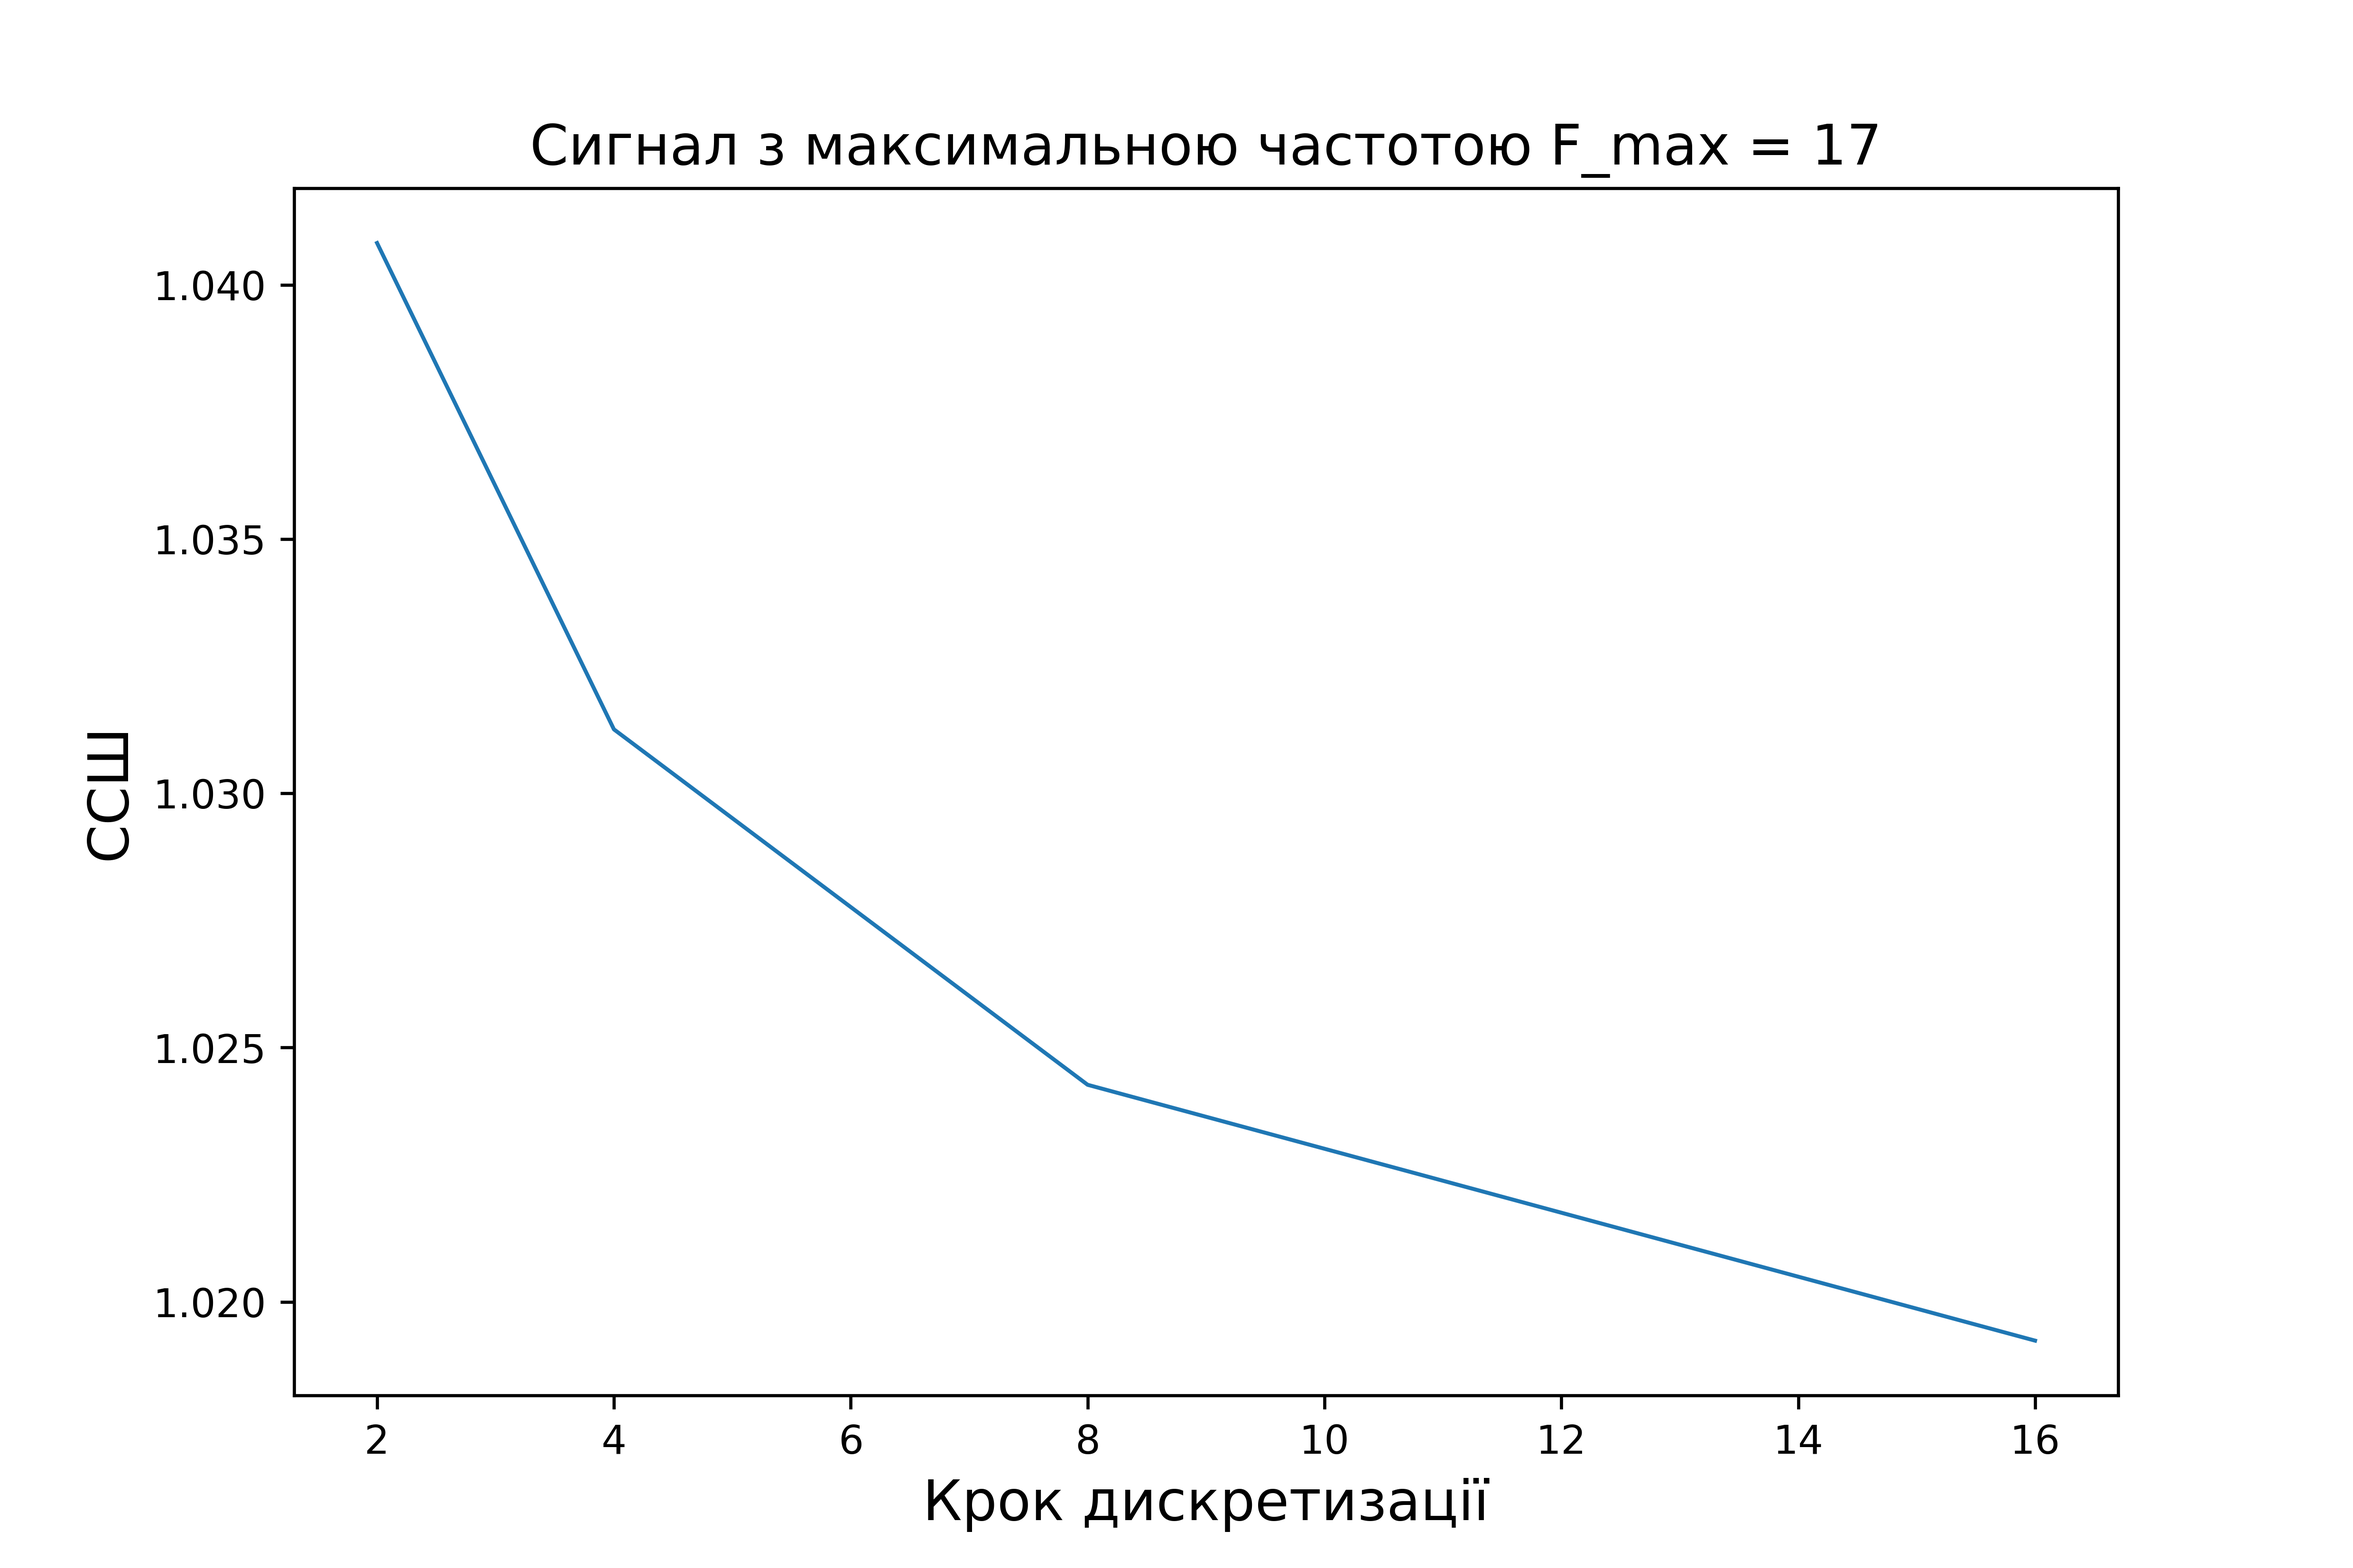
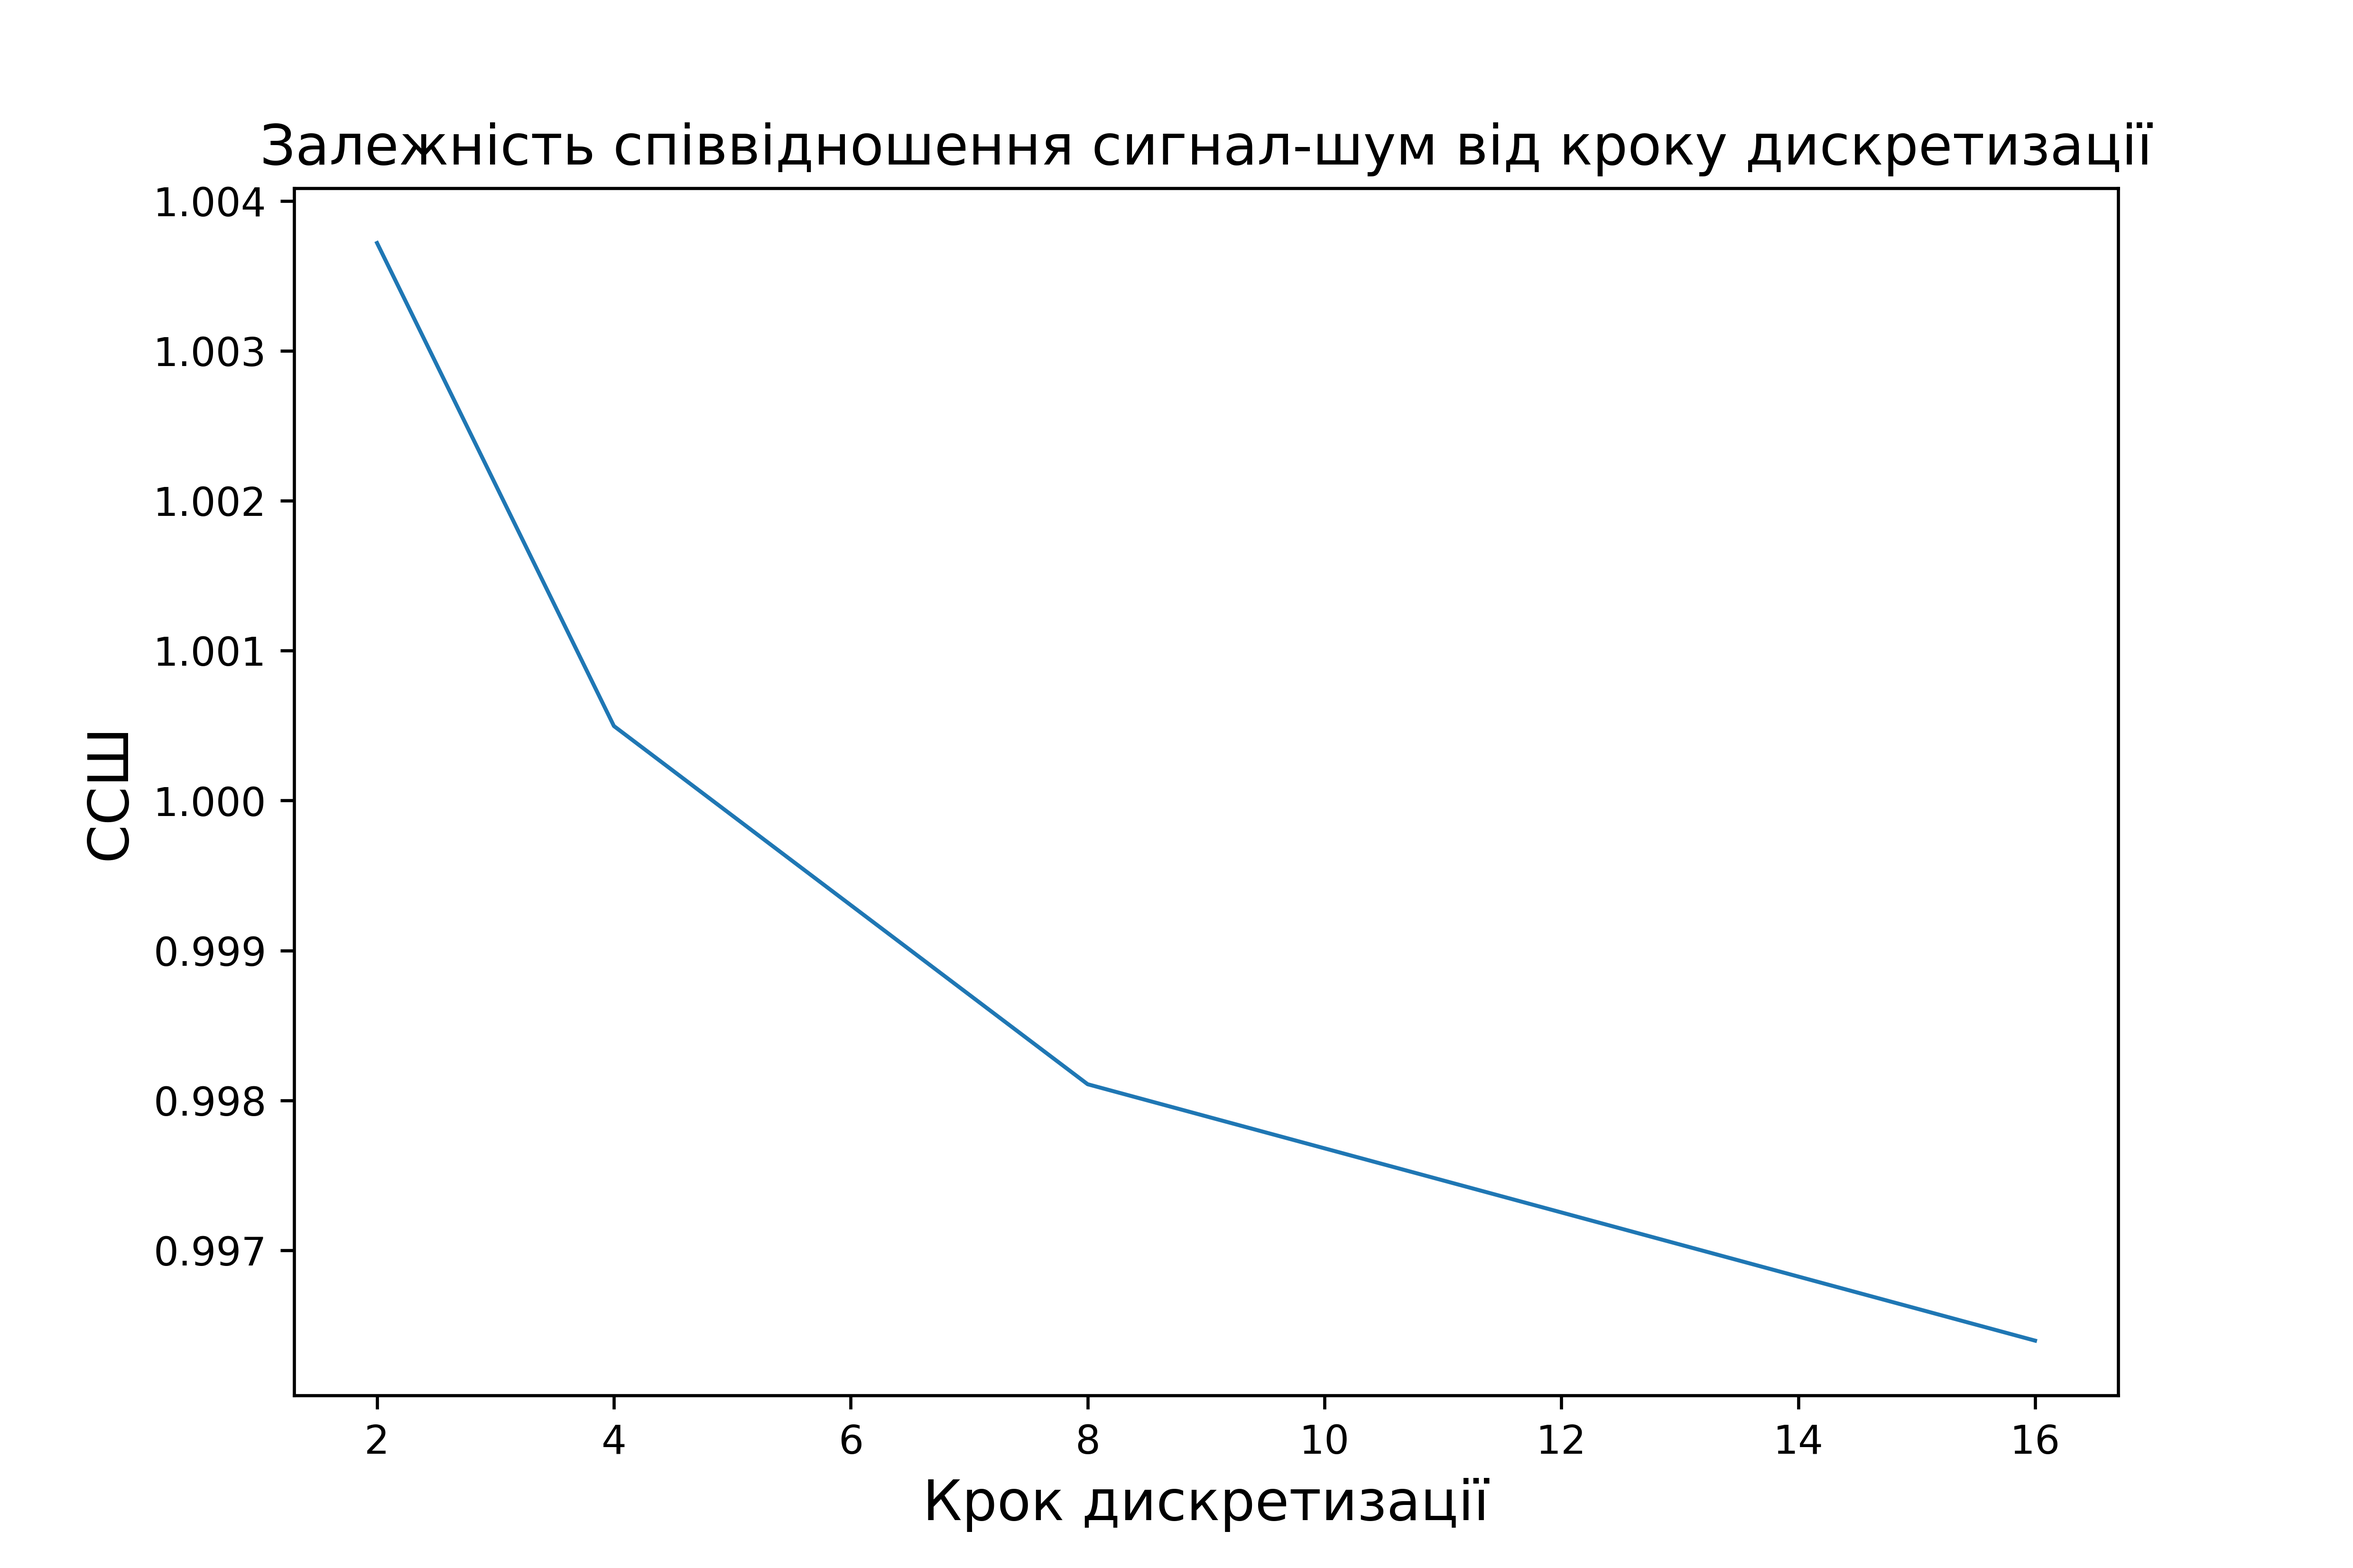
Signal processing, 4

diff --git a/SignalProcessing/SignalProcessing.py b/SignalProcessing/SignalProcessing.py
@@ -1,5 +1,6 @@
-# Практична робота 3; варіант 10
+# Практична робота 4; варіант 10
 import numpy
+import numpy as np
 import scipy
 import matplotlib.pyplot as plt
 from scipy import signal, fft
@@ -103,7 +104,7 @@ fig, ax = plt.subplots(figsize=(21 / 2.54, 14 / 2.54))
 ax.plot(X, dispersion_differ, linewidth=1)
 ax.set_xlabel("Крок дискретизації", fontsize=14)
 ax.set_ylabel("Дисперсія", fontsize=14)
-plt.title("Сигнал з максимальною частотою F_max = 17", fontsize=14)
+plt.title("Залежність дисперсії від кроку дискретизації", fontsize=14)
 fig.savefig("./figures/" + "Залежність дисперсії від кроку дискретизації" + ".png", dpi=600)
 
 # figure 7
@@ -111,5 +112,71 @@ fig, ax = plt.subplots(figsize=(21 / 2.54, 14 / 2.54))
 ax.plot(X, sign_noise, linewidth=1)
 ax.set_xlabel("Крок дискретизації", fontsize=14)
 ax.set_ylabel("ССШ", fontsize=14)
-plt.title("Сигнал з максимальною частотою F_max = 17", fontsize=14)
+plt.title("Залежність співвідношення сигнал-шум від кроку дискретизації", fontsize=14)
 fig.savefig("./figures/" + "Залежність співвідношення сигнал-шум від кроку дискретизації" + ".png", dpi=600)
+
+quantize_signals = []
+dispersion_val = []
+signal_noise4 = []
+for M in [4, 16, 64, 256]:
+    bits = []
+    bits_signal = []
+    delta = (numpy.max(filtration_signal) - numpy.min(filtration_signal)) / (M - 1)
+    quantize_signal = delta * np.round(filtration_signal / delta)
+    quantize_signals += [quantize_signal]
+    quantize_levels = numpy.arange(numpy.min(quantize_signal), numpy.max(quantize_signal)+1, delta)
+    quantize_bit = numpy.arange(0, M)
+    quantize_bits = [format(bits, '0' + str(int(numpy.log(M) / numpy.log(2))) + 'b') for bits in quantize_bit]
+    quantize_table = numpy.c_[quantize_levels[:M], quantize_bits[:M]]
+    # table 1 - 4
+    fig, ax = plt.subplots(figsize=(14 / 2.54, M / 2.54))
+    table = ax.table(cellText=quantize_table, colLabels=['Значення сигналу', 'Кодова послідовність'], loc='center')
+    table.set_fontsize(14)
+    table.scale(1, 2)
+    ax.axis('off')
+    fig.savefig("./figures/" + f'Таблиця квантування для {M} рівнів' + ".png", dpi=600)
+
+    for signal_value in quantize_signal:
+        for index, value in enumerate(quantize_levels[:M]):
+            if numpy.round(numpy.abs(signal_value - value), 0) == 0:
+                bits.append(quantize_bits[index])
+                break
+    bits = [int(item) for item in list(''.join(str(x) for x in bits))]
+# figure 8 - 11
+    fig, ax = plt.subplots(figsize=(21 / 2.54, 14 / 2.54))
+    ax.step(numpy.arange(0, len(bits)), bits, linewidth=0.1)
+    ax.set_xlabel('Біти', fontsize=14)
+    ax.set_ylabel('Амплітуда сигналу', fontsize=14)
+    plt.title(f'Кодова послідовність сигналу при кількості рівнів квантування {M}', fontsize=14)
+    fig.savefig('./figures/' + f'Кодова послідовність сигналу при кількості рівнів квантування {M}' + '.png', dpi=600)
+
+    E4 = quantize_signal - filtration_signal
+    dispersion3 = numpy.var(filtration_signal)
+    dispersion_val += [numpy.var(E4)]
+    signal_noise4 += [numpy.var(filtration_signal)/numpy.var(E4)]
+# figure 12
+fig, ax = plt.subplots(2, 2, figsize=(21 / 2.54, 14 / 2.54))
+s6 = 0
+for i in range(0, 2):
+    for j in range(0, 2):
+        ax[i][j].plot(time_ox, quantize_signals[s6], linewidth=1)
+        s6 += 1
+fig.supxlabel('Час (секунди)', fontsize=14)
+fig.supylabel('Амплітуда сигналу', fontsize=14)
+fig.suptitle('Цифрові сигнали з рівнями квантування 4, 16, 64, 256', fontsize=14)
+fig.savefig('./figures/' + 'Цифрові сигнали з рівнями квантування 4, 16, 64, 256' + '.png', dpi=600)
+# figure 13
+X2 = [4, 16, 64, 256]
+fig, ax = plt.subplots(figsize=(21 / 2.54, 14 / 2.54))
+ax.plot(X2, dispersion_val, linewidth=1)
+ax.set_xlabel("Кількість рівнів квантування", fontsize=14)
+ax.set_ylabel("Дисперсія", fontsize=14)
+plt.title("Залежність дисперсії від кількості рівнів квантування", fontsize=14)
+fig.savefig("./figures/" + "Залежність дисперсії від кількості рівнів квантування" + ".png", dpi=600)
+# figure 14
+fig, ax = plt.subplots(figsize=(21 / 2.54, 14 / 2.54))
+ax.plot(X2, signal_noise4, linewidth=1)
+ax.set_xlabel("Кількість рівнів квантування", fontsize=14)
+ax.set_ylabel("ССШ", fontsize=14)
+plt.title("Залежність співвідношення сигнал-шум від кількостів рівнів квантування", fontsize=14)
+fig.savefig("./figures/" + "Залежність співвідношення сигнал-шум від кількостів рівнів квантування" + ".png", dpi=600)
